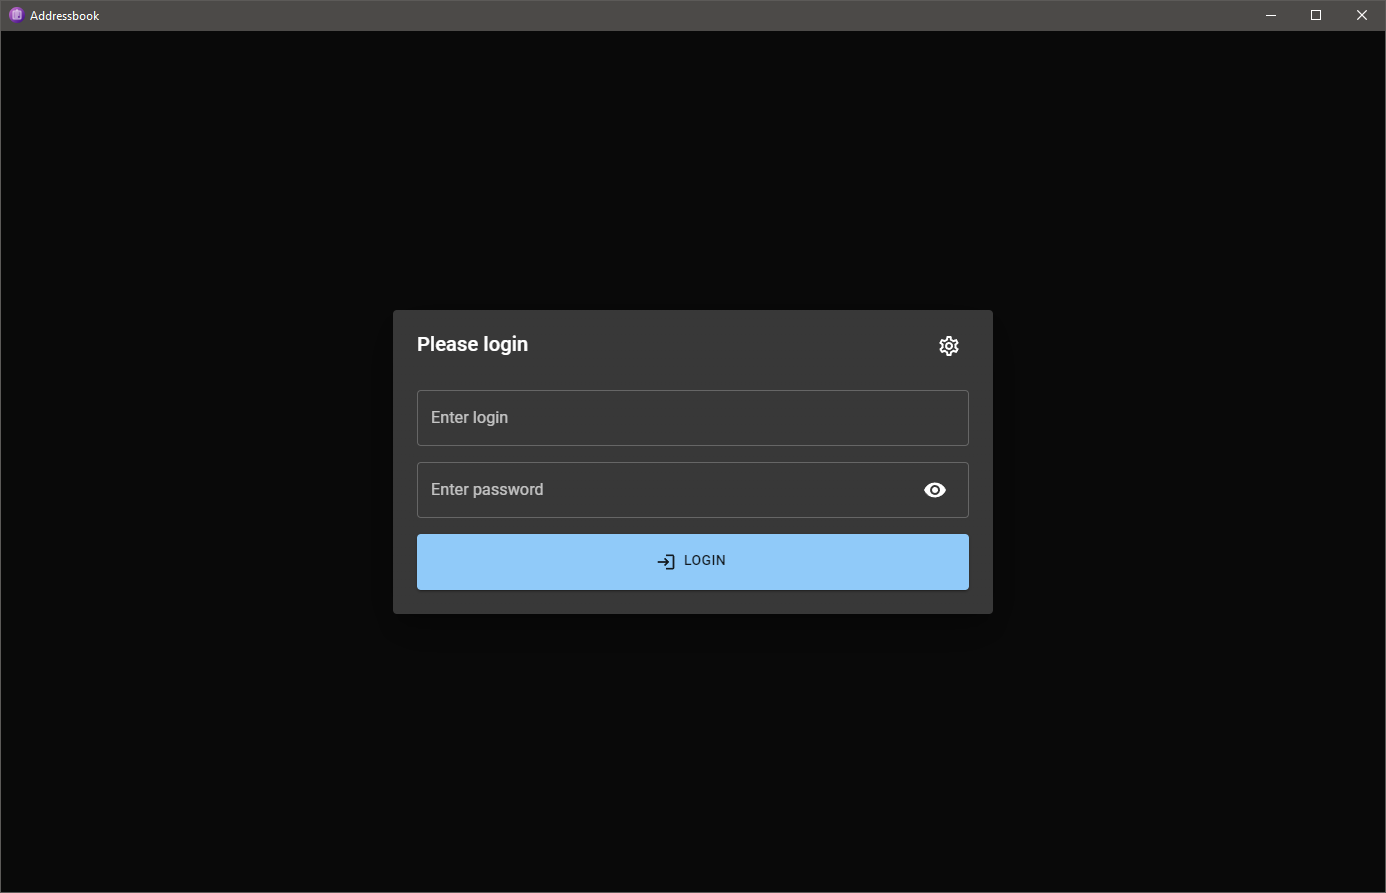
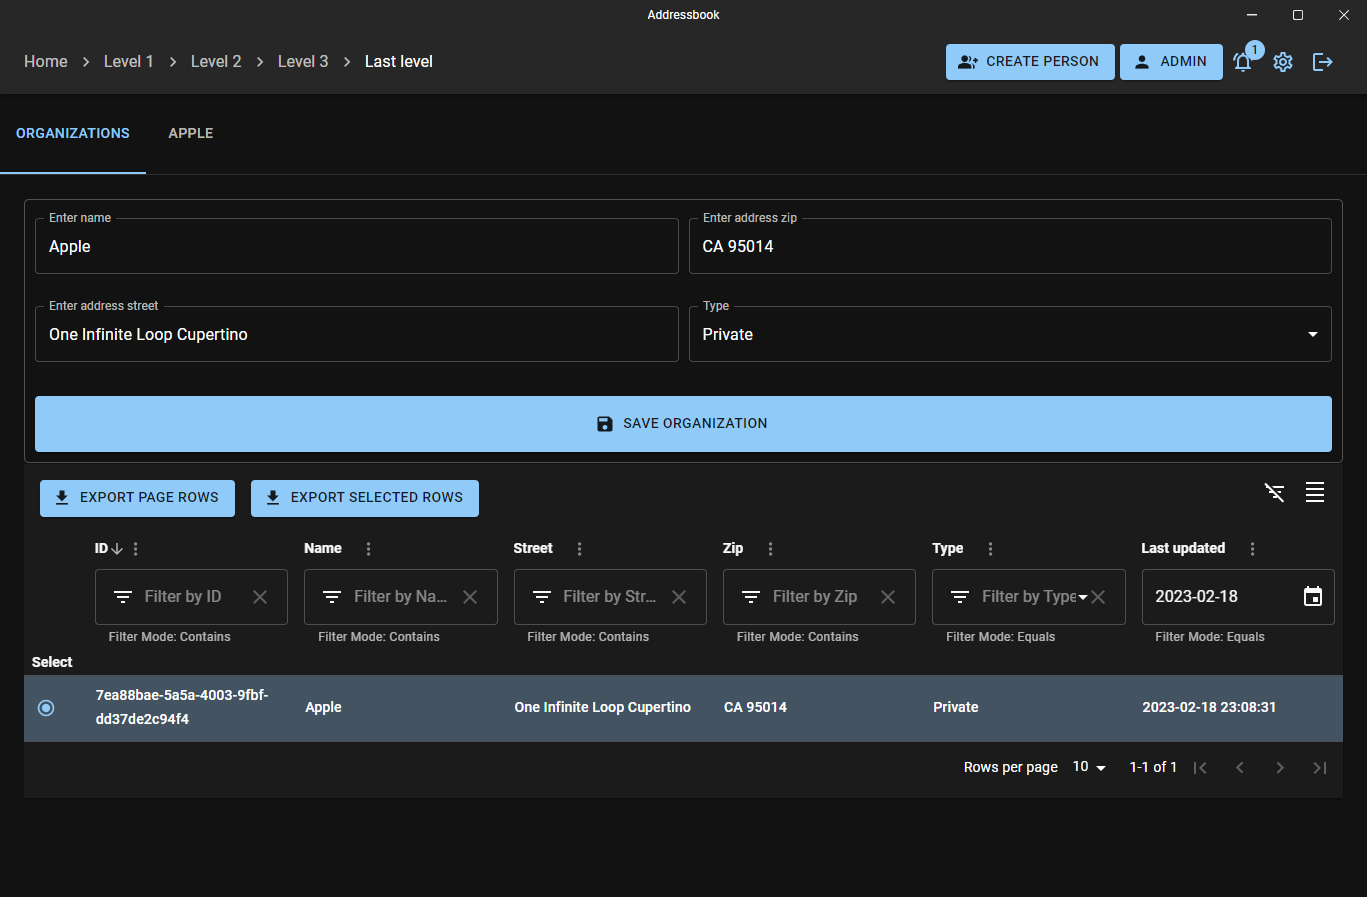
Refactoring

diff --git a/src/main.js b/src/main.js
@@ -1,6 +1,7 @@
 const { app, BrowserWindow, ipcMain} = require('electron');
+import { setupTitlebar, attachTitlebarToWindow } from "custom-electron-titlebar/main";
+setupTitlebar();
 const Store = require('electron-store');
-
 let store = new Store();
 ipcMain.on('save-server-url', (event, arg) => {
   if(arg != null)
@@ -18,9 +19,9 @@ const createWindow = () => {
   const mainWindow = new BrowserWindow({
     width: 1400,
     height: 900,
-    frame: true,
     show: false,
     icon: __dirname + '/favicon.ico',
+    titleBarStyle: 'hidden',
     webPreferences: {
       preload: MAIN_WINDOW_PRELOAD_WEBPACK_ENTRY,
       webSecurity: false,
@@ -35,6 +36,7 @@ const createWindow = () => {
     splash.destroy();
     mainWindow.show();
   });
+  attachTitlebarToWindow(mainWindow);
 };
 
 app.on('ready', createWindow);

diff --git a/src/Common/style.css b/src/Common/style.css
@@ -1,3 +1,10 @@
+.cet-title{
+    color: white;
+}
+
+.cet-menubar {
+    display: none!important;
+}
 #mui-rte-root {
     display: flex;
     min-height: 200px;
@@ -43,4 +50,15 @@
 
 th.MuiTableCell-head:first-of-type {
     vertical-align: bottom;
+}
+
+.cet-titlebar {
+    box-shadow: none!important;
+}
+
+@media (prefers-color-scheme: dark) {
+    .cet-titlebar {
+        background-color: #121212!important;
+        background-image: linear-gradient(rgba(255, 255, 255, 0.09), rgba(255, 255, 255, 0.09))!important;
+    }
 }

diff --git a/src/preload.js b/src/preload.js
@@ -1,5 +1,6 @@
 const contextBridge = require('electron').contextBridge;
 const ipcRenderer = require('electron').ipcRenderer;
+import {Titlebar} from 'custom-electron-titlebar';
 
 const ipc = {
     'render': {
@@ -31,3 +32,7 @@ contextBridge.exposeInMainWorld(
         }
     }
 );
+
+window.addEventListener('DOMContentLoaded', () => {
+    return new Titlebar()
+});
